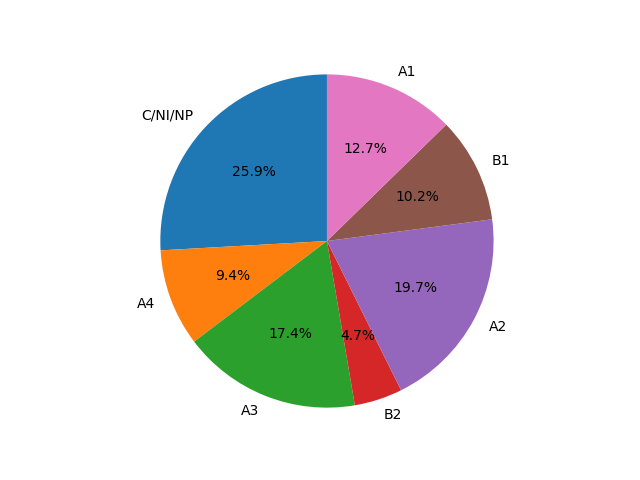
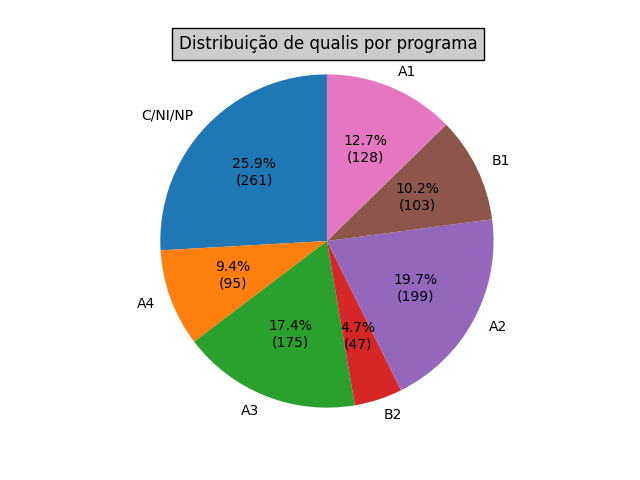
Mudanças no output

diff --git a/main.py b/main.py
@@ -36,37 +36,24 @@ def dict_from_json(src):
 
     return dictionary
 
+def plot_program(program):
+  labels, values = zip(*program.items())
+  total = sum(values)
+  plt.title("Distribuição de qualis por programa", bbox={'facecolor':'0.8', 'pad':5})
+  plt.pie(values, startangle=90,labels=labels,
+  autopct=lambda p : "{:.1f}%\n({:d})".format(p,int(round((p*total)/100))))
+  plt.axis('equal')
+  plt.savefig('graph.png')
+
+"""
 dataframe = pd.read_csv("Particao_k3_c1_reduced.csv")
 dictionary = count_qualis_occurances_for_program(dataframe)
 dict_to_json("Particao_k3_c1_reduced.json", dictionary)
-
-def plot_program(program):
-	labels, values = zip(*program.items())
-	total = sum(values)
-	sizes = [qualis_count / total for qualis_count in values]
-	fig1, ax1 = plt.subplots()
-	ax1.pie(sizes, labels=labels, autopct='%1.1f%%', startangle=90)
-	ax1.axis('equal')  # Equal aspect ratio ensures that pie is drawn as a circle.
-	plt.savefig('graph.png')
+"""
 
 plot_program(dict_from_json("Particao_k3_c1_reduced.json")["23001011005P7"])
 
 """
 programs_dict = dict_from_json("dict.json")
 print(programs_dict)
-"""
-
-"""
-pegue uma linha
-para x em programas {
-	verifique se x é uma chave no dicionario(true){
-		verificar se o qualis está no dicionario do programa(true){
-			adicionar um ao valor da chave do qualis
-		} else {
-			adicionar a chave ao dicionario e setar 1
-		}
-	} se não {
-		adiciona o programa com um dicionario vazio
-	}
-}
 """
